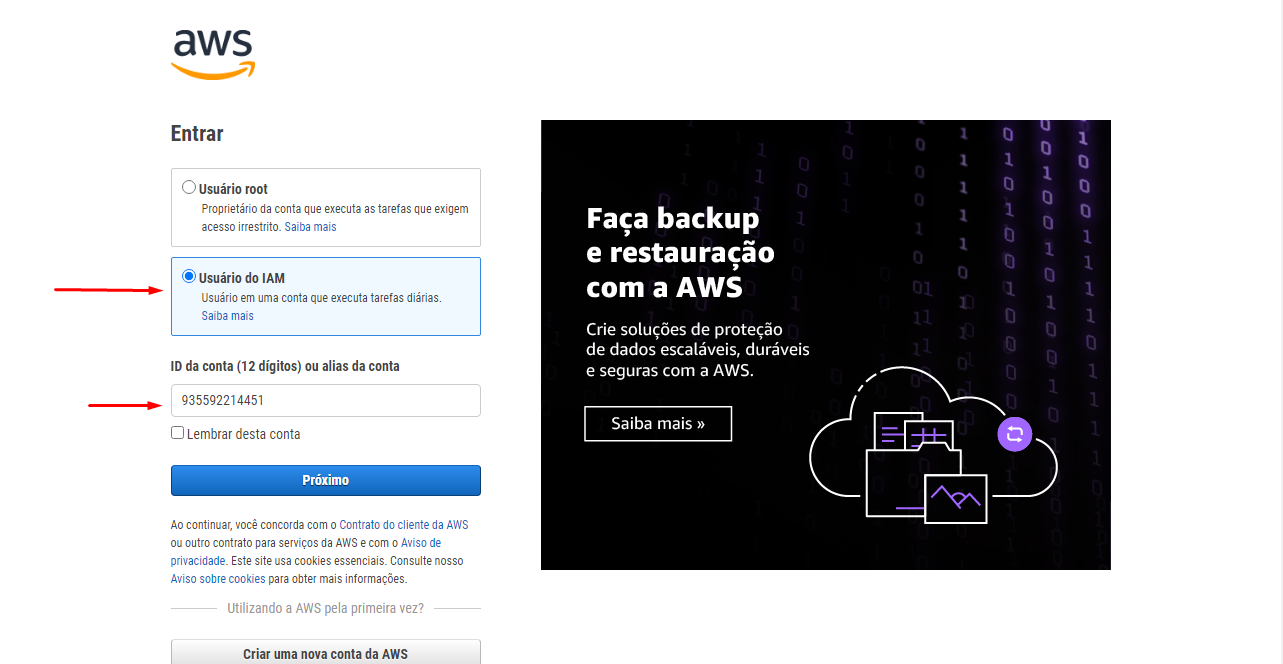
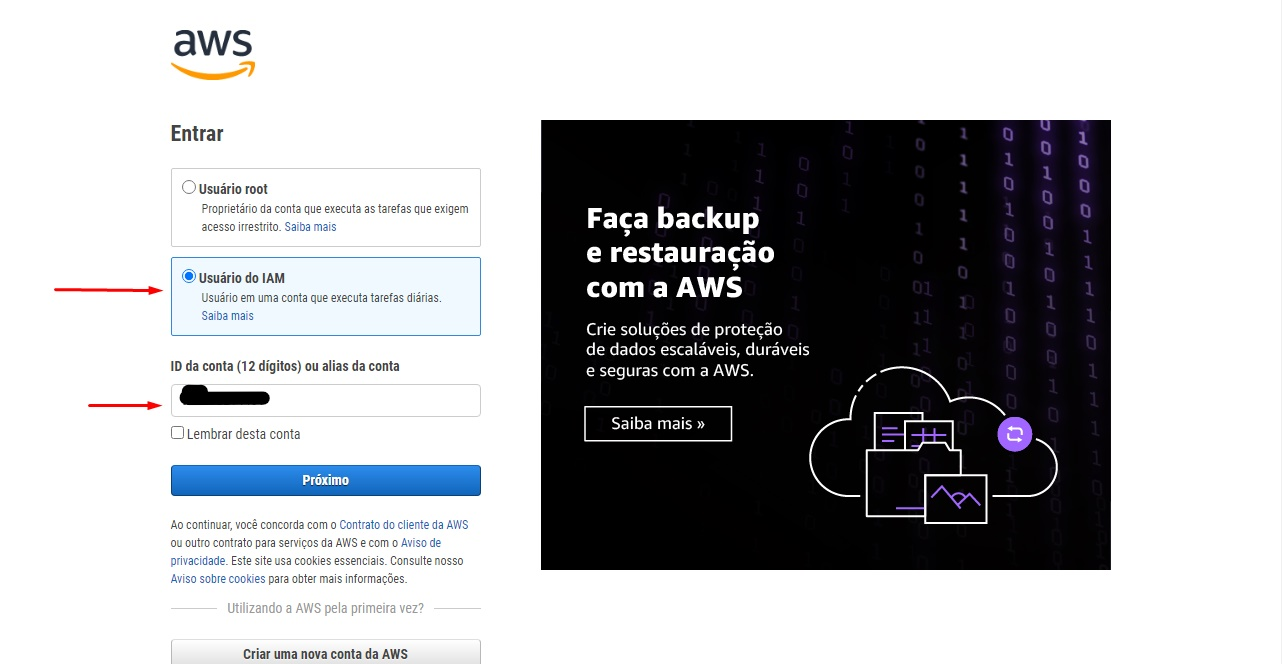
mudando imagens

diff --git a/index.html b/index.html
@@ -125,8 +125,7 @@
             <p>
                 Você então será redirecionado para uma página onde deverá selecionar com qual tipo de usuário
                 vai se conectar, que nesse caso é o IAM. Depois de selecionado, você deve informar o
-                id da conta (busque essa informação com o administrador da máquina), que nesse caso será
-                935592214451.
+                id da conta (busque essa informação com o administrador da máquina).
             </p>
 
             <div class="container-main-image">
